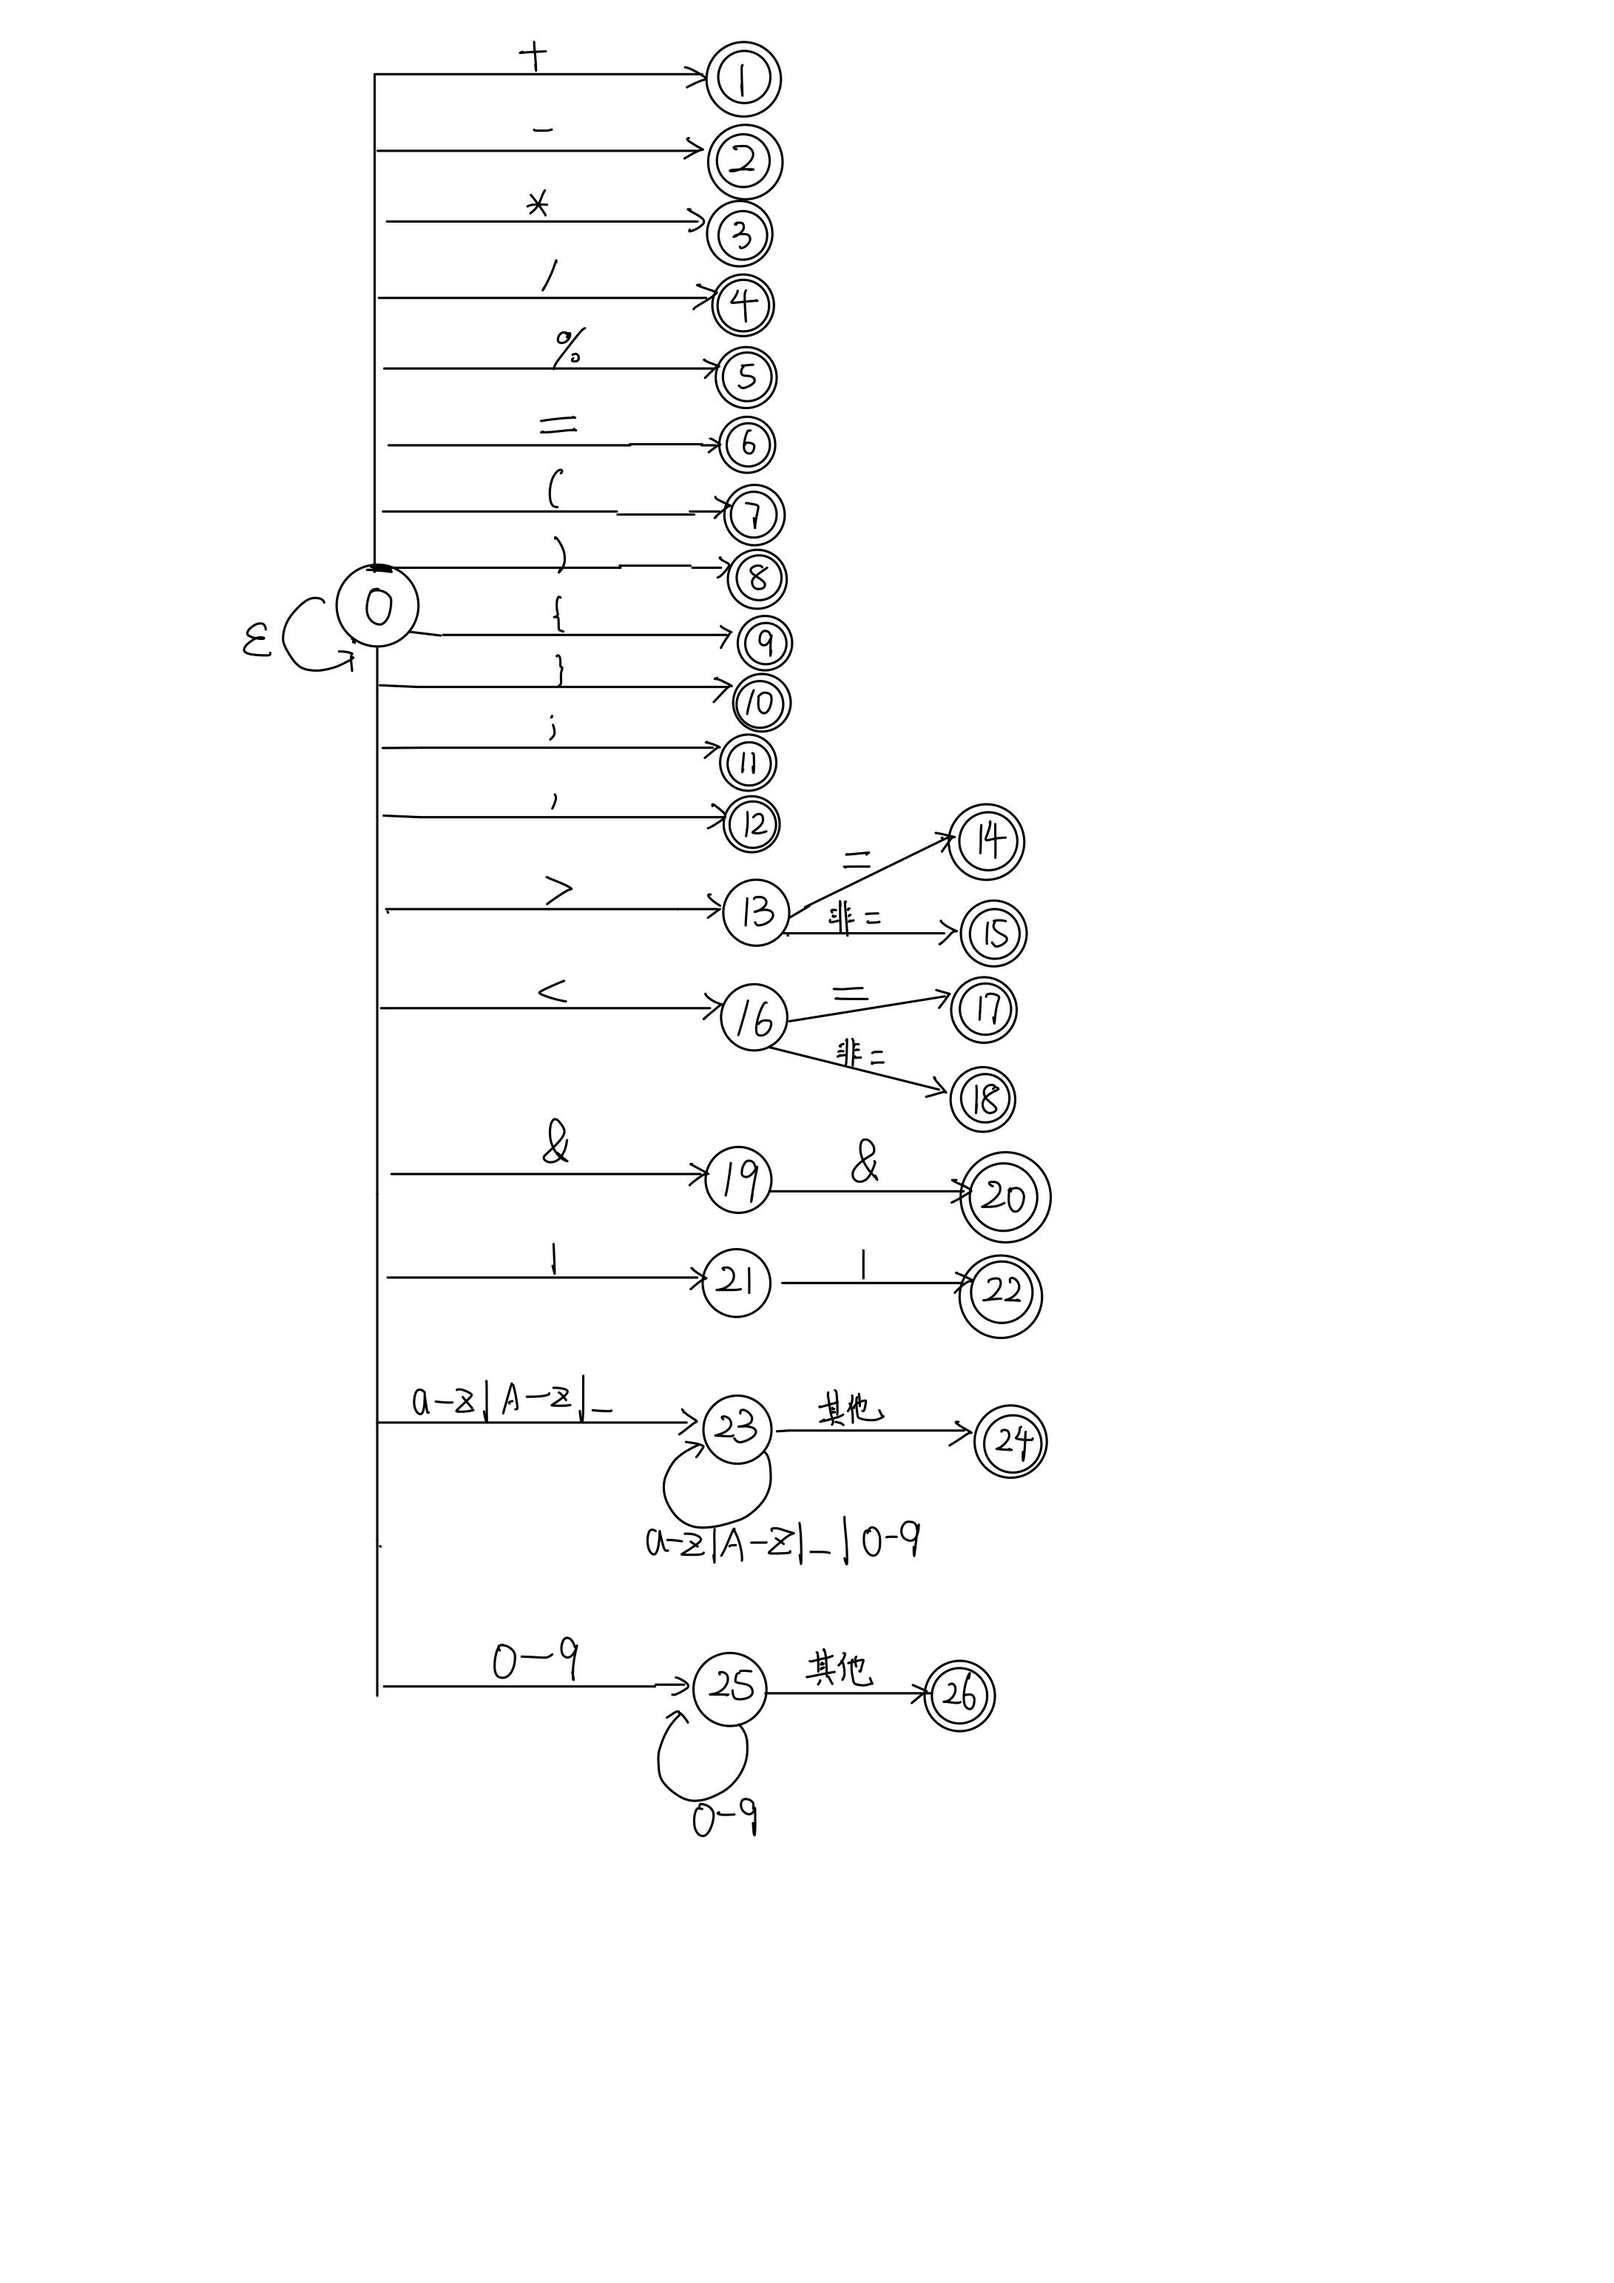
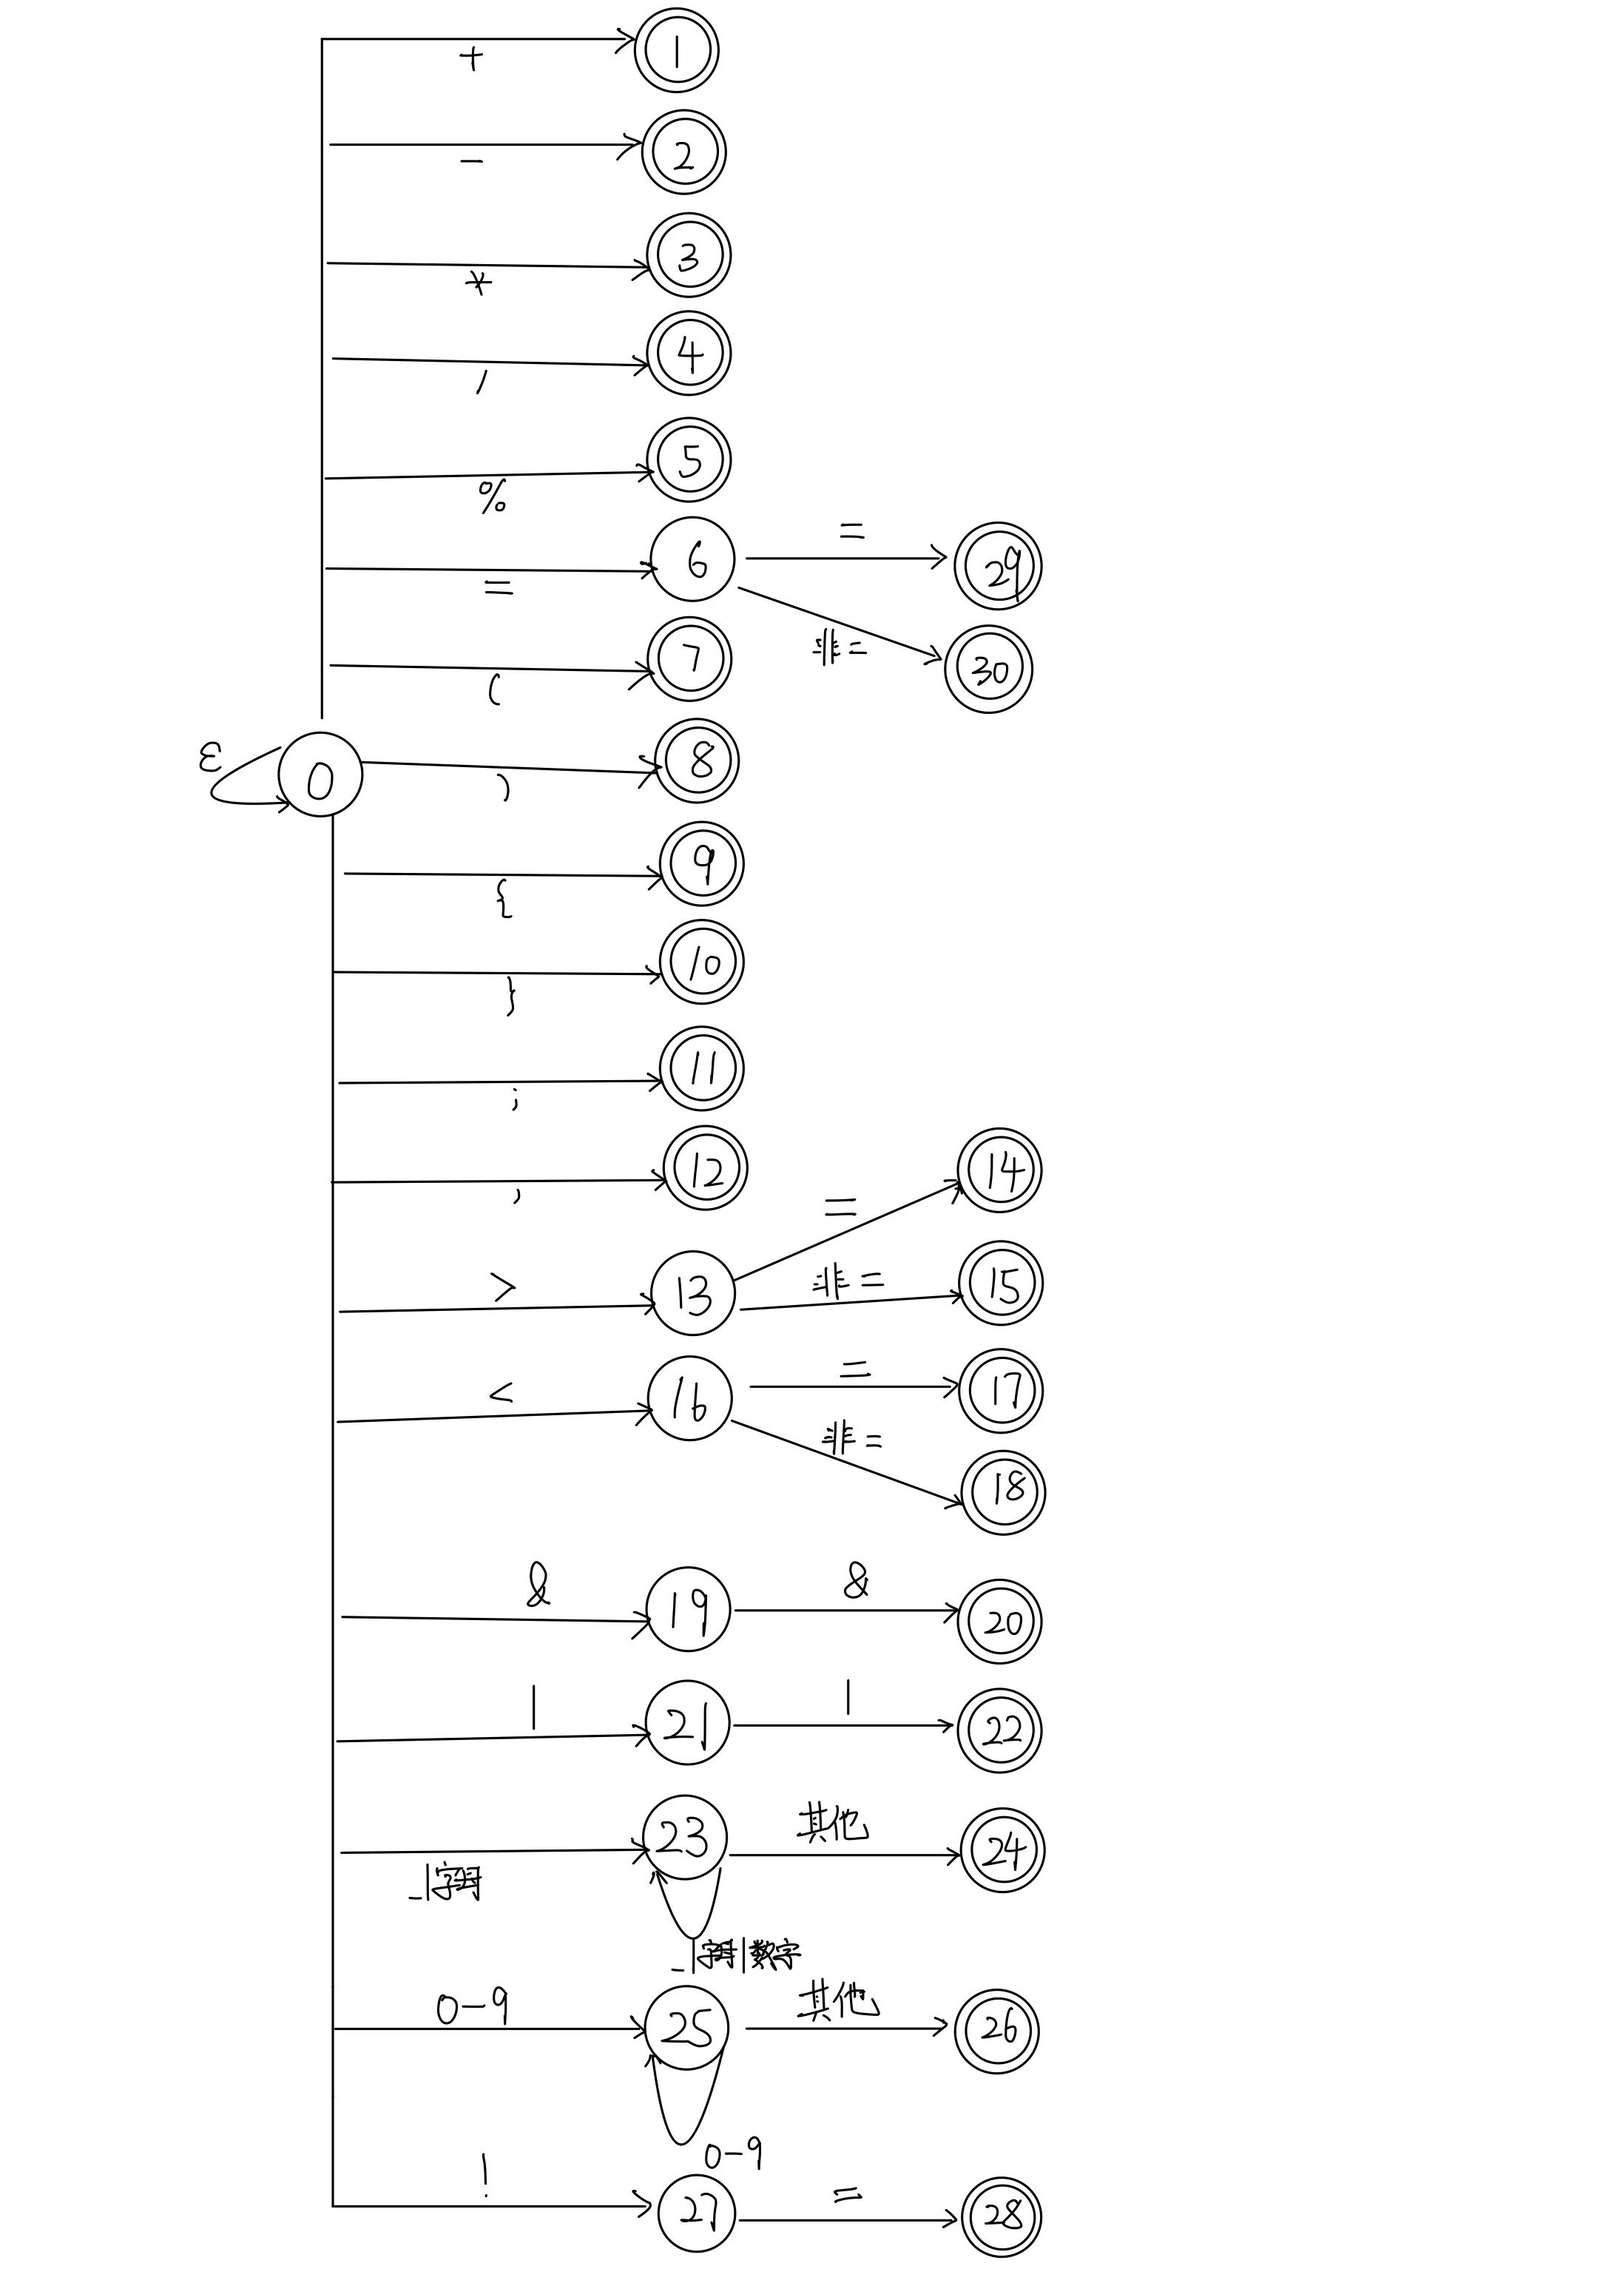
fixed some bugs and update file name

diff --git a/LexicalAnalysis/NFA.java b/LexicalAnalysis/NFA.java
@@ -12,8 +12,8 @@ public class NFA {
     public ArrayList<Edge> edgeList = new ArrayList<>();
     public String[] tags = {
             "[+]", "-", "[*]", "/", "%", "=", "[(]", "[)]", "[{]", "[}]", ";", ",",
-            ">", "[^=]", "<", "|", "&", "[_a-zA-Z]", "[_0-9a-zA-Z]", "[^_0-9a-zA-Z]",
-            "[1-9]", "[0-9]", "[^0-9]"
+            ">", "[^=]", "<", "[|]", "&", "[_a-zA-Z]", "[_0-9a-zA-Z]", "[^_0-9a-zA-Z]",
+            "[1-9]", "[0-9]", "[^0-9]","!"
     };
 
     public NFA() {
@@ -21,10 +21,14 @@ public class NFA {
         String[] SE = {"[(]", "[)]", "[{]", "[}]", ";", ","};
         nodeList.add(new Node(0, false, false, ""));
         edgeList.add(new Edge(0, 0, "epsilon"));
-        for (int i = 1; i <= 6; i++) {
+        for (int i = 1; i < 6; i++) {
             nodeList.add(new Node(i, true, false, "OP"));
             edgeList.add(new Edge(0, i, directOP[i - 1]));
         }
+
+        nodeList.add(new Node(6, false, false, ""));
+        edgeList.add(new Edge(0, 6, "="));
+
         for (int i = 1; i <= 6; i++) {
             nodeList.add(new Node(i + 6, true, false, "SE"));
             edgeList.add(new Edge(0, i + 6, SE[i - 1]));
@@ -41,12 +45,12 @@ public class NFA {
         nodeList.add(new Node(17, true, false, "OP"));
         edgeList.add(new Edge(16, 17, "="));
         nodeList.add(new Node(18, true, true, "OP"));
-        edgeList.add(new Edge(16, 18, "^="));
+        edgeList.add(new Edge(16, 18, "[^=]"));
 
         nodeList.add(new Node(19, false, false, ""));
         nodeList.add(new Node(20, true, false, "OP"));
-        edgeList.add(new Edge(0, 19, "|"));
-        edgeList.add(new Edge(19, 20, "|"));
+        edgeList.add(new Edge(0, 19, "[|]"));
+        edgeList.add(new Edge(19, 20, "[|]"));
 
         nodeList.add(new Node(21, false, false, ""));
         nodeList.add(new Node(22, true, false, "OP"));
@@ -64,6 +68,18 @@ public class NFA {
         edgeList.add(new Edge(0, 25, "[0-9]"));
         edgeList.add(new Edge(25, 25, "[0-9]"));
         edgeList.add(new Edge(25, 26, "[^0-9]"));
+
+        nodeList.add(new Node(27, false, false, ""));
+        edgeList.add(new Edge(0, 27, "!"));
+        nodeList.add(new Node(28, true, false, "OP"));
+        edgeList.add(new Edge(27, 28, "="));
+
+
+        nodeList.add(new Node(29, true, false, "OP"));
+        edgeList.add(new Edge(6, 29, "="));
+        nodeList.add(new Node(30, true, true, "OP"));
+        edgeList.add(new Edge(6, 30, "[^=]"));
+
     }
 
     public String toString() {

diff --git a/LexicalAnalysis/Main.java b/LexicalAnalysis/Main.java
@@ -12,15 +12,15 @@ public class Main {
         // TODO Auto-generated method stub
         //默认是当前工程文件夹
         String dir = "src/CompilersProject/Tests/";
-        String in = "test5.txt";
-        String out = "test5_out.txt";
+        String in = "test5.c";
+        String out = "5lex.tsv";
 
         ReadTxt r = new ReadTxt();
         NFA nfa = new NFA();
         DFA dfa = new DFA(nfa);
         dfa.determine();
         dfa.minimize();
-        System.out.println(dfa);
+
         TokenTable tokenTable = new TokenTable();
         Lexer lexer = new Lexer(r.readTxt(dir + in), tokenTable, dfa);
         lexer.run();

diff --git a/Tests/test5.c b/Tests/test5.c
@@ -1,0 +1,18 @@
+const int a=1;
+const int b=2;
+const int c=3;
+void an_da(int a,int b){
+    if(a<=b) return;
+    a= (a%b)+2;
+}
+int main(){
+    int a=b||c;
+    int d = 123;
+    d=a&&b;
+    int e=3,f=4;
+    if(e!=f) e=f%c;
+    e=f-3;
+    int _abc=0
+    if(e==f && a>=b && d!=e || (d> _abc*3 && d<2)) e=a/3;
+    return 0;
+}

diff --git a/LexicalAnalysis/README.md b/LexicalAnalysis/README.md
@@ -98,7 +98,7 @@ public class ReadTxt {
 
 如下图：
 
-![](../pictures/nfa.png)
+![](../pictures/状态转化.jpg)
 
 ####  2.2算法实现
 
